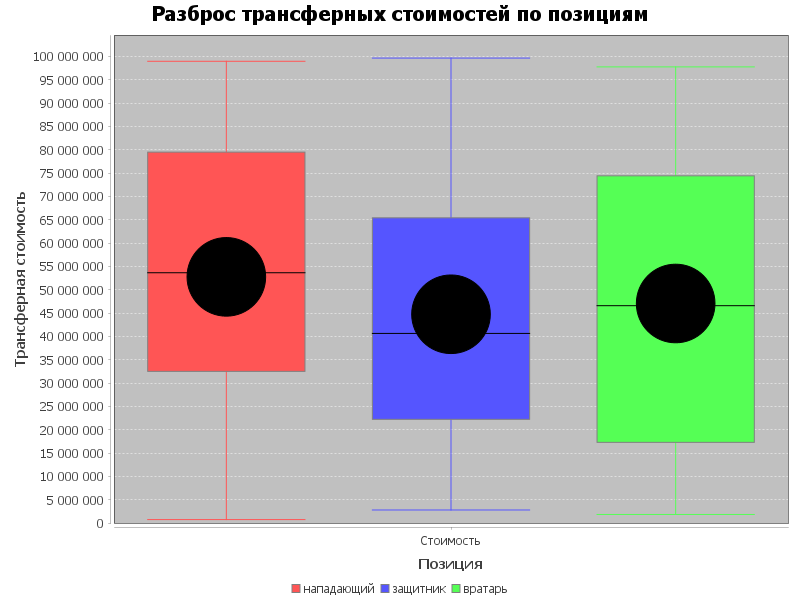
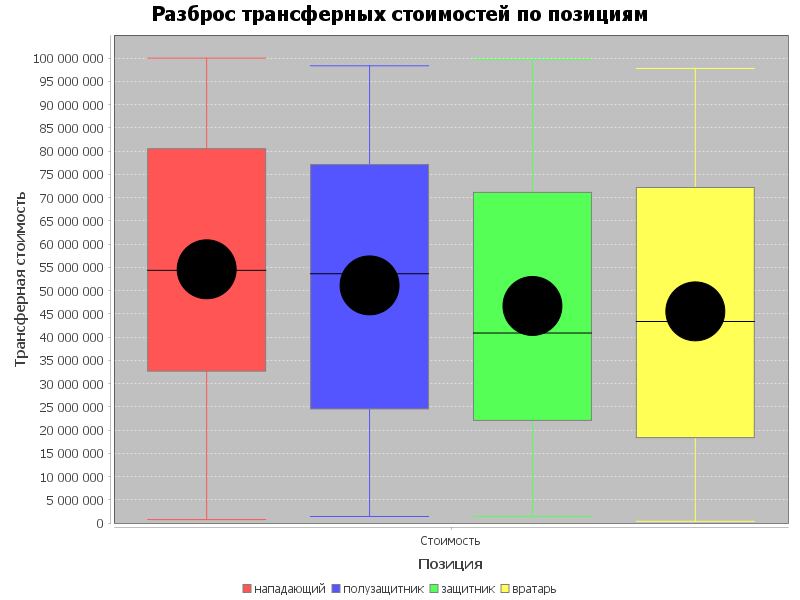
ИсправлÐВ Position исправлеÐ.kt½о знÐ испИсправлена константа MIDFIELD, продвинутая задача визуализации, добавлены и доработаны выводы в Main

diff --git a/src/main/kotlin/Main.kt b/src/main/kotlin/Main.kt
@@ -17,31 +17,31 @@ fun main() {
 
     System.setOut(PrintStream(System.out, true, StandardCharsets.UTF_8))
     val parser = CsvParser()
-    val result = parser.parse("src/main/resources/fakePlayersDirty.csv")
+    val result = parser.parse("src/main/resources/fakePlayers.csv")
+    val dirtyResult = parser.parse("src/main/resources/fakePlayersDirty.csv")
+    println("Всего игроков из файла fakePlayersDirty.csv: ${dirtyResult.players.size}")
+    println("Пропущено строк из файла fakePlayersDirty.csv: ${dirtyResult.skippedCount}")
+    println("Всего игроков из файла fakePlayers.csv: ${result.players.size}")
+    println("Пропущено строк из файла fakePlayers.csv: ${result.skippedCount}")
 
-    println("Всего игроков: ${result.players.size}")
-    println("Пропущено строк: ${result.skippedCount}")
-
-    if (result.players.isEmpty()) {
+    if (dirtyResult.players.isEmpty()) {
         println("Нет данных для анализа")
         return
     }
 
-    val resolver = Resolver(result.players)
+    val resolver = Resolver(dirtyResult.players)
 
-    println("\n")
-
-    println("\n1. Игроков без агентства: ${resolver.getCountWithoutAgency()}")
+    println("1. Игроков без агентства: ${resolver.getCountWithoutAgency()}")
 
     val bestScorer = resolver.getBestScorerDefender()
-    println("\n2. Лучший защитник-бомбардир: ${bestScorer.first} (${bestScorer.second} голов)")
+    println("2. Лучший защитник: ${bestScorer.first} (${bestScorer.second} голов)")
 
-    println("\n3. Позиция самого дорогого немца: ${resolver.getTheExpensiveGermanPlayerPosition()}")
+    println("3. Позиция самого дорогого немца: ${resolver.getTheExpensiveGermanPlayerPosition()}")
 
     val rudestTeam = resolver.getTheRudestTeam()
-    println("\n4. Команда с наибольшим средним красных: ${rudestTeam.name} (${rudestTeam.city})")
+    println("4. Команда с наибольшим средним красных карточек: ${rudestTeam.name} (${rudestTeam.city})")
 
-    println("\n5. Средняя стоимость по позициям (по убыванию):")
+    println("5. Средняя стоимость по позициям по убыванию:")
     resolver.getAverageTransferCostByPosition()
         .toList()
         .sortedByDescending { it.second }
@@ -49,22 +49,21 @@ fun main() {
             println("   ${position.russianName.padEnd(15)} ${"%.2f".format(avg)}")
         }
 
-    println("\n6. Топ-3 самых полезных игроков:")
+    println("6. Топ-3 самых полезных игроков:")
     resolver.getMostValuablePlayers().forEachIndexed { index, player ->
         val utility = player.goals + 2 * player.assists
         println("   ${index + 1}. ${player.name} (полезность: $utility)")
     }
 
-    println("\n7. Самое популярное агентство по странам:")
+    println("7. Самое популярное агентство по странам:")
     resolver.getMostPopularAgencyByCountry().forEach { (country, agency) ->
         println("   $country - $agency")
     }
 
     val (below, above) = resolver.getGoalsShareByMedianCost()
-    println("\n8. Распределение голов относительно медианной стоимости:")
+    println("8. Распределение голов относительно медианной стоимости:")
     println("   Игроки не дороже медианы: ${"%.1f".format(below * 100)}% голов")
     println("   Игроки дороже медианы: ${"%.1f".format(above * 100)}% голов")
-    println("\n")
 
     println("Задание 4. Вариант 3. Визуализация")
     plotTransferCostDistribution(result.players)

diff --git a/src/test/kotlin/InfrastructureTest.kt b/src/test/kotlin/InfrastructureTest.kt
@@ -30,7 +30,7 @@ class InfrastructureTest {
         assertEquals(Position.FORWARD, Position.fromCsvTokenOrNull("НАПАДАЮЩИЙ"))
         assertEquals(Position.FORWARD, Position.fromCsvTokenOrNull("  нападающий  "))
 
-        assertEquals(Position.MIDFIELDER, Position.fromCsvTokenOrNull("полузащитник"))
+        assertEquals(Position.MIDFIELD, Position.fromCsvTokenOrNull("полузащитник"))
         assertEquals(Position.DEFENDER, Position.fromCsvTokenOrNull("защитник"))
         assertEquals(Position.GOALKEEPER, Position.fromCsvTokenOrNull("вратарь"))
     }
@@ -41,7 +41,7 @@ class InfrastructureTest {
         assertEquals(Position.FORWARD, Position.fromCsvTokenOrNull("Forward"))
         assertEquals(Position.FORWARD, Position.fromCsvTokenOrNull("forward"))
 
-        assertEquals(Position.MIDFIELDER, Position.fromCsvTokenOrNull("MIDFIELDER"))
+        assertEquals(Position.MIDFIELD, Position.fromCsvTokenOrNull("MIDFIELD"))
         assertEquals(Position.DEFENDER, Position.fromCsvTokenOrNull("defender"))
         assertEquals(Position.GOALKEEPER, Position.fromCsvTokenOrNull("Goalkeeper"))
     }
@@ -326,7 +326,7 @@ class InfrastructureTest {
                 name = "Player5",
                 team = team3,
                 city = "Munich",
-                position = Position.MIDFIELDER,
+                position = Position.MIDFIELD,
                 nationality = "Germany",
                 agency = null,
                 transferCost = 4000000,
@@ -404,7 +404,7 @@ class InfrastructureTest {
 
         assertEquals(5500000.0, averages[Position.FORWARD])
         assertEquals(3000000.0, averages[Position.DEFENDER])
-        assertEquals(4000000.0, averages[Position.MIDFIELDER])
+        assertEquals(4000000.0, averages[Position.MIDFIELD])
         assertEquals(2000000.0, averages[Position.GOALKEEPER])
     }
 

diff --git a/src/main/kotlin/model/Position.kt b/src/main/kotlin/model/Position.kt
@@ -5,17 +5,31 @@ package model
 // fromCsvTokenOrNull(token: String): Position?, не зависящую от регистра и лишних пробелов.
 enum class Position(val russianName: String) {
     FORWARD("нападающий"),
-    MIDFIELDER("полузащитник"),
+    MIDFIELD("полузащитник"),
     DEFENDER("защитник"),
     GOALKEEPER("вратарь");
 
     companion object {
+        private val aliases = mapOf(
+            "midfield" to MIDFIELD,
+            "mid" to MIDFIELD,
+            "striker" to FORWARD,
+            "attack" to FORWARD,
+            "attacker" to FORWARD,
+            "fw" to FORWARD,
+            "def" to DEFENDER,
+            "defence" to DEFENDER,
+            "defense" to DEFENDER,
+            "gk" to GOALKEEPER,
+            "keeper" to GOALKEEPER
+        )
+
         fun fromCsvTokenOrNull(token: String): Position? {
             val normalized = token.trim().lowercase()
-            return entries.find {
-                it.russianName == normalized ||
-                        it.name.lowercase() == normalized
-            }
+            entries.find {
+                it.russianName == normalized || it.name.lowercase() == normalized
+            }?.let { return it }
+            return aliases[normalized]
         }
     }
 }

diff --git a/src/main/kotlin/resolver/Resolver.kt b/src/main/kotlin/resolver/Resolver.kt
@@ -35,14 +35,12 @@ class Resolver(private val players: List<Player>) : IResolver {
         return team ?: Team("не найдено", "")
     }
 
-    override fun getAverageTransferCostByPosition(): Map<Position, Double> {
-        return Position.entries.associateWith { position ->
-            val costs = players
-                .filter { it.position == position }
-                .map { it.transferCost.toDouble() }
-            if (costs.isNotEmpty()) costs.average() else 0.0
-        }
-    }
+    override fun getAverageTransferCostByPosition(): Map<Position, Double> =
+        players.groupBy { it.position }
+            .mapValues { (_, list) -> list.map { it.transferCost }.average() }
+            .entries
+            .sortedByDescending { it.value }
+            .associate { it.key to it.value }
 
     override fun getMostValuablePlayers(): List<Player> {
         return players
